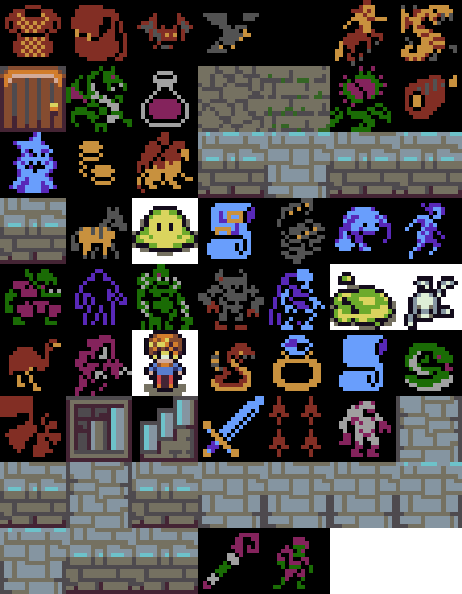
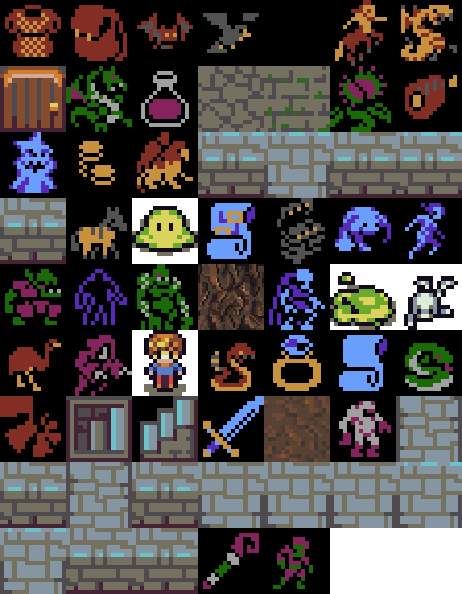
Added a new type of dungeon generator that occurs on every fifth level.

Changed region(s): [[0.4242, 0.4242, 0.5758, 0.5758], [0.5455, 0.6667, 0.7273, 0.7879]]

diff --git a/Rogue.js b/Rogue.js
@@ -58,8 +58,8 @@ function getPlayerTitle() {
     return ('the ' + adjective + ' ' + nickname);
 }
 
-const mapWidth = 30;
-const mapHeight = 30;
+const mapWidth = 35;
+const mapHeight = 35;
 
 const playerFOVRadius = 8;
 const previouslyExploredAlpha = 0.4;
@@ -153,15 +153,44 @@ class Floor {
         this.levelNumber = levelNumber;
         this.enemies = [];
         this.mapExplored = {};
-        var digger = new ROT.Map.Digger(width, height, {roomWidth:[3,7], roomHeight:[3,7], corridorLength:[2,4], dugPercentage:0.24});
-        //new ROT.Map.Uniform(width, height, {roomWidth: [3,6], roomHeight: [3,6], roomDugPercentage: 0.5});
+        
+        if ((this.levelNumber+1)%5 == 0) {
+        
+            /* create a connected map where the player can reach all non-wall sections */
+            var cellMap = new ROT.Map.Cellular(width, height, { connected: true });
 
-        var digCallback = function(x,y, value) {
-            var key = x + "," + y;
-            if (value) { this.map[key] = " ";}
-            else { this.map[key] = ".";}// Walls: ' ' Floor: '.'
+            /* cells with 1/2 probability */
+            cellMap.randomize(0.43);
+
+            /* make a few generations */
+            for (var i=0; i<5; i++) cellMap.create();
+
+            for (var j = 0; j < height; j++) {
+                for (var i = 0; i < width; i++) {
+                    if (cellMap._map[i][j]) {
+                        this.map[i+','+j] = '%';
+                    } else {
+                        this.map[i+','+j] = ' '
+                    }
+                }
+            }
+
+            var digger = new ROT.Map.Digger(width, height, {roomWidth:[3,7], roomHeight:[3,7], corridorLength:[2,10], dugPercentage:0.2});
+            var digCallback = function(x,y, value) {
+                var key = x + "," + y;
+                if (value) { if (this.map[x+','+y] != '%') { this.map[key] = ' ';}}
+                else { this.map[key] = ".";}// Walls: ' ' Floor: '.'
+            }
+        } else {        
+            var digger = new ROT.Map.Digger(width, height, {roomWidth:[3,7], roomHeight:[3,7], corridorLength:[2,4], dugPercentage:0.24});
+            //new ROT.Map.Uniform(width, height, {roomWidth: [3,6], roomHeight: [3,6], roomDugPercentage: 0.5});
+
+            var digCallback = function(x,y, value) {
+                var key = x + "," + y;
+                if (value) { this.map[key] = " ";}
+                else { this.map[key] = ".";}// Walls: ' ' Floor: '.'
+            }
         }
-
         digger.create(digCallback.bind(this));
 
         this.rooms = digger.getRooms();
@@ -225,7 +254,7 @@ class Floor {
         this.placeEnemies();
         this.dijkstra = new ROT.Path.Dijkstra(this.playerX, this.playerY, function (x, y) {
             if (this.map) {
-                return ((this.map[x+','+y] === '.') || (this.map[x+','+y] === ',') || (this.map[x+','+y] === '-') || (this.map[x+','+y] === '+'))
+                return ((this.map[x+','+y] === '.') || (this.map[x+','+y] === ',') || (this.map[x+','+y] === '-') || (this.map[x+','+y] === '+') || (this.map[x+','+y] === '%'))
             } else {
                 return false;
             }
@@ -240,7 +269,7 @@ class Floor {
         // Player's field-of-view light input callback
         var lightPasses = function(x,y) {
             var key = x+","+y;
-            if (key in localMap) { return ((localMap[key] == ".") || (localMap[key] == ",") || localMap[key] == "-" || localMap[key] == "<" || localMap[key] == ">"); }
+            if (key in localMap) { return ((localMap[key] == ".") || (localMap[key] == ",") || localMap[key] == "-" || localMap[key] == "<" || localMap[key] == ">" || localMap[key] == "%"); }
             return false;
         }
         
@@ -340,7 +369,7 @@ class Floor {
                 mapData = this.map[x+","+y];
                 switch (mapData) {
                     case ' ':
-                        tileName = ' ';
+                        tileName = 'monster 6';
                         break;
                     case '.':
                         tileName = "floor_room";
@@ -359,6 +388,10 @@ class Floor {
                         break;
                     case '-':
                         tileName = "openDoor";
+                        break;
+                    case '%':
+                        // Cave floor
+                        tileName = "trap";
                         break;
                     case '#':
                         // Surround Tiles is an array of the results from checking if the tiles surrounding a wall are in rooms or not.
@@ -446,7 +479,7 @@ class Enemy {
     calculateMove(playerX, playerY, map) {
         var dijkstra = new ROT.Path.Dijkstra(playerX, playerY, function (x, y) {
             if (map) {
-                return ((map[x+','+y] === '.') || (map[x+','+y] === ',') || (map[x+','+y] === '-') || (map[x+','+y] === '+'))
+                return ((map[x+','+y] === '.') || (map[x+','+y] === ',') || (map[x+','+y] === '-') || (map[x+','+y] === '+') || (map[x+','+y] === '%'))
             } else {
                 return false;
             }

diff --git a/js/Game.js b/js/Game.js
@@ -46,8 +46,8 @@ var Application = PIXI.Application,
 
 // Number of tiles that make up the width and height of the Roguelike level
 // Unsure what is optimal for performance but still creates a fun map to play
-var mapWidth = 30,
-    mapHeight = 30;
+var mapWidth = 35,
+    mapHeight = 35;
 
 // If running on a mobile phone, will add buttons for navigation
 // and create smaller map.
@@ -542,28 +542,28 @@ function menu(delta) {
         if (menuScreen == 'main') {
             if (menuInput.vy > 0) {
                 menuInput.y += 2*fontHeight*1.5;
-                if (menuInput.y > 736) {
-                    menuInput.y = 544;
+                if (menuInput.y > 896) {
+                    menuInput.y = 704;
                 }
             } else if(menuInput.vy < 0) {
                 menuInput.y -= 2*fontHeight*1.5;
-                if (menuInput.y < 544) {
-                    menuInput.y = 736;
+                if (menuInput.y < 704) {
+                    menuInput.y = 896;
                 }
             }
 
             if (menuInput.vx > 0) {
                 switch(menuInput.y) {
-                    case 544:
+                    case 704:
                         // New Game
                         socket.emit('new game', defaultName);
                         break;
-                    case 640:
+                    case 800:
                         // Load Game
                         menuScreen = 'load';
                         updateMenu();
                         break;
-                    case 736:
+                    case 896:
                         // Graphics
                         switchGraphics();
                         updateMenu();
@@ -582,13 +582,13 @@ function menu(delta) {
             var saves = getLocalStorageSaves();
             if (menuInput.vy > 0) {
                 menuInput.y += 2*fontHeight*1.5;
-                if (menuInput.y > 1152) {
-                    menuInput.y = 576;
+                if (menuInput.y > 1312) {
+                    menuInput.y = 736;
                 }
             } else if(menuInput.vy < 0) {
                 menuInput.y -= 2*fontHeight*1.5;
-                if (menuInput.y < 576) {
-                    menuInput.y = 1152;
+                if (menuInput.y < 736) {
+                    menuInput.y = 1312;
                 }
             }
             
@@ -598,44 +598,44 @@ function menu(delta) {
             } else if (menuInput.vx > 0) {
                 switch(menuInput.y) {
                     // TODO: Can be reduced. Instead of doing things this way, going to create menu objects
-                    // Also instead of checking each x in a switch, will just use Object.keys(saves).length+1)*64
+                    // Also instead of checking each y in a switch, will just use Object.keys(saves).length+1)*64
                     // to find which menu object the user is looking at.
-                    case 576:
+                    case 736:
                         // Save 1
                         if (saves[1].saveID) {
                             socket.emit('load game', saves[1].saveID);
                         }
                         break;
-                    case 672:
+                    case 832:
                         // Save 2
                         if (saves[2].saveID) {
                             socket.emit('load game', saves[2].saveID);
                         }
                         break;
-                    case 768:
+                    case 928:
                         // Save 3
                         if (saves[3].saveID) {
                             socket.emit('load game', saves[3].saveID);
                         }
                         break;
-                    case 864:
+                    case 1024:
                         // Save 4
                         if (saves[4].saveID) {
                             socket.emit('load game', saves[4].saveID);
                         }
                         break;
-                    case 960:
+                    case 1120:
                         // Save 5
                         if (saves[5].saveID) {
                             socket.emit('load game', saves[5].saveID);
                         }
                         break;
-                    case 1056:
+                    case 1216:
                         // Load from Dialog
                         var uuid = prompt("Enter the game's uuid: ", '');
                         socket.emit('load game', uuid);
                         break;
-                    case 1152:
+                    case 1312:
                         // Back
                         menuScreen = 'main';
                         updateMenu();
